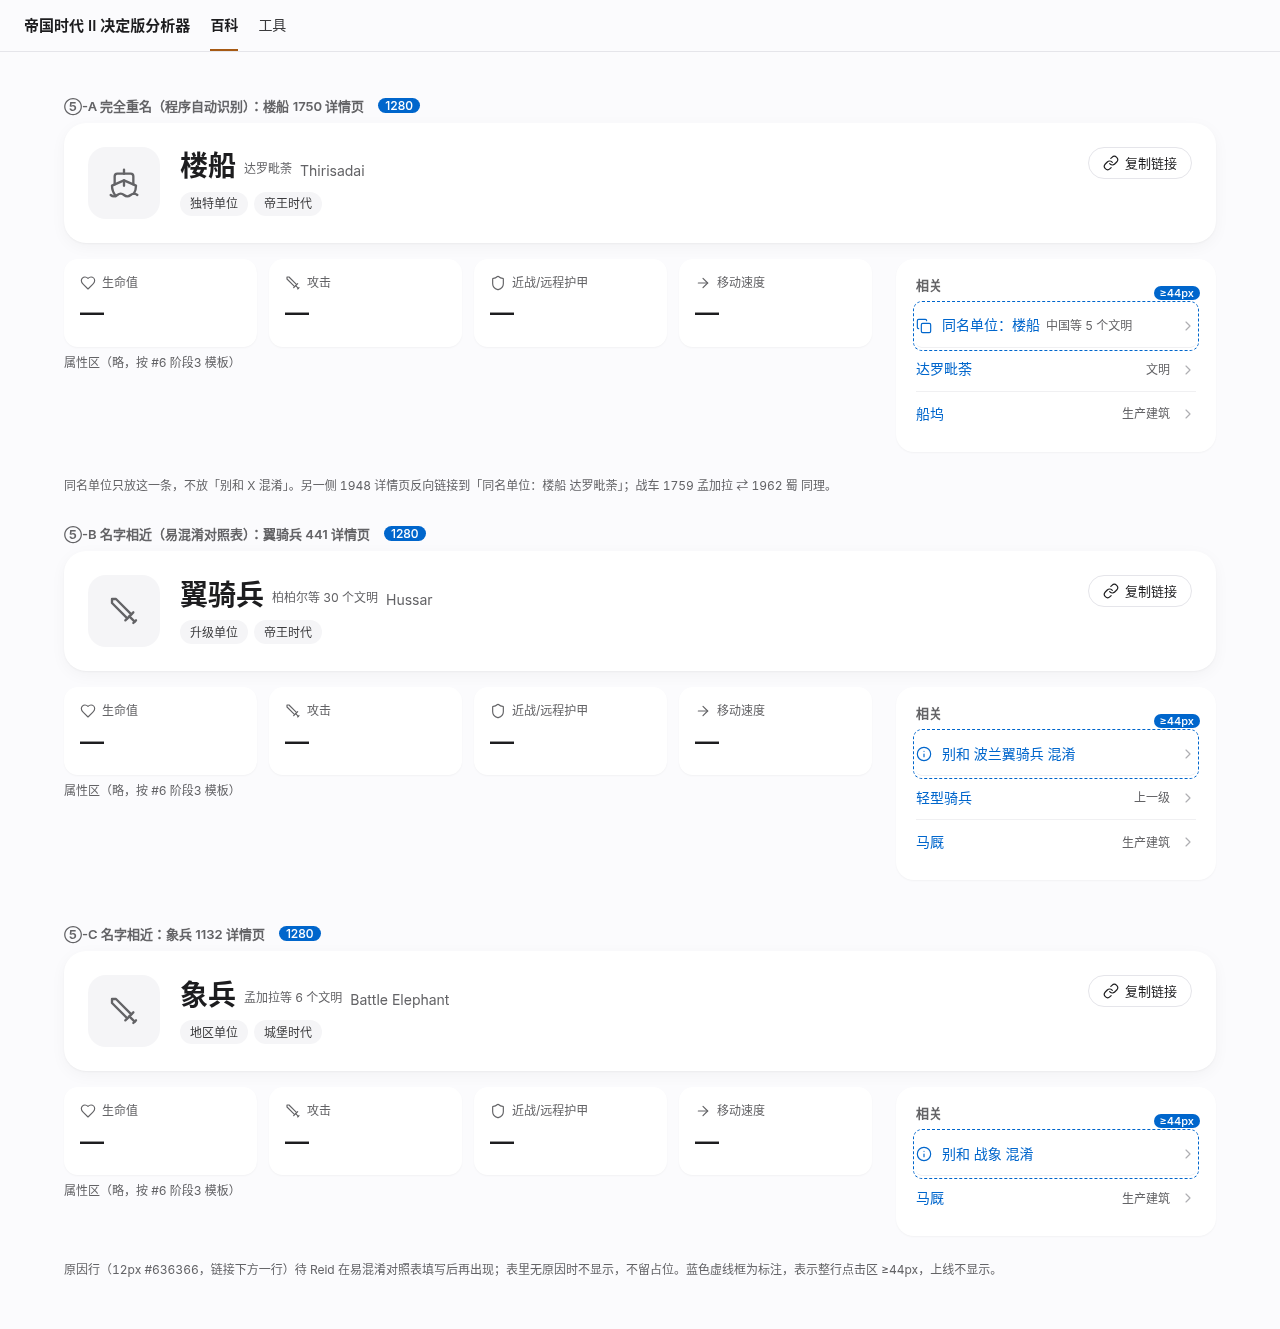
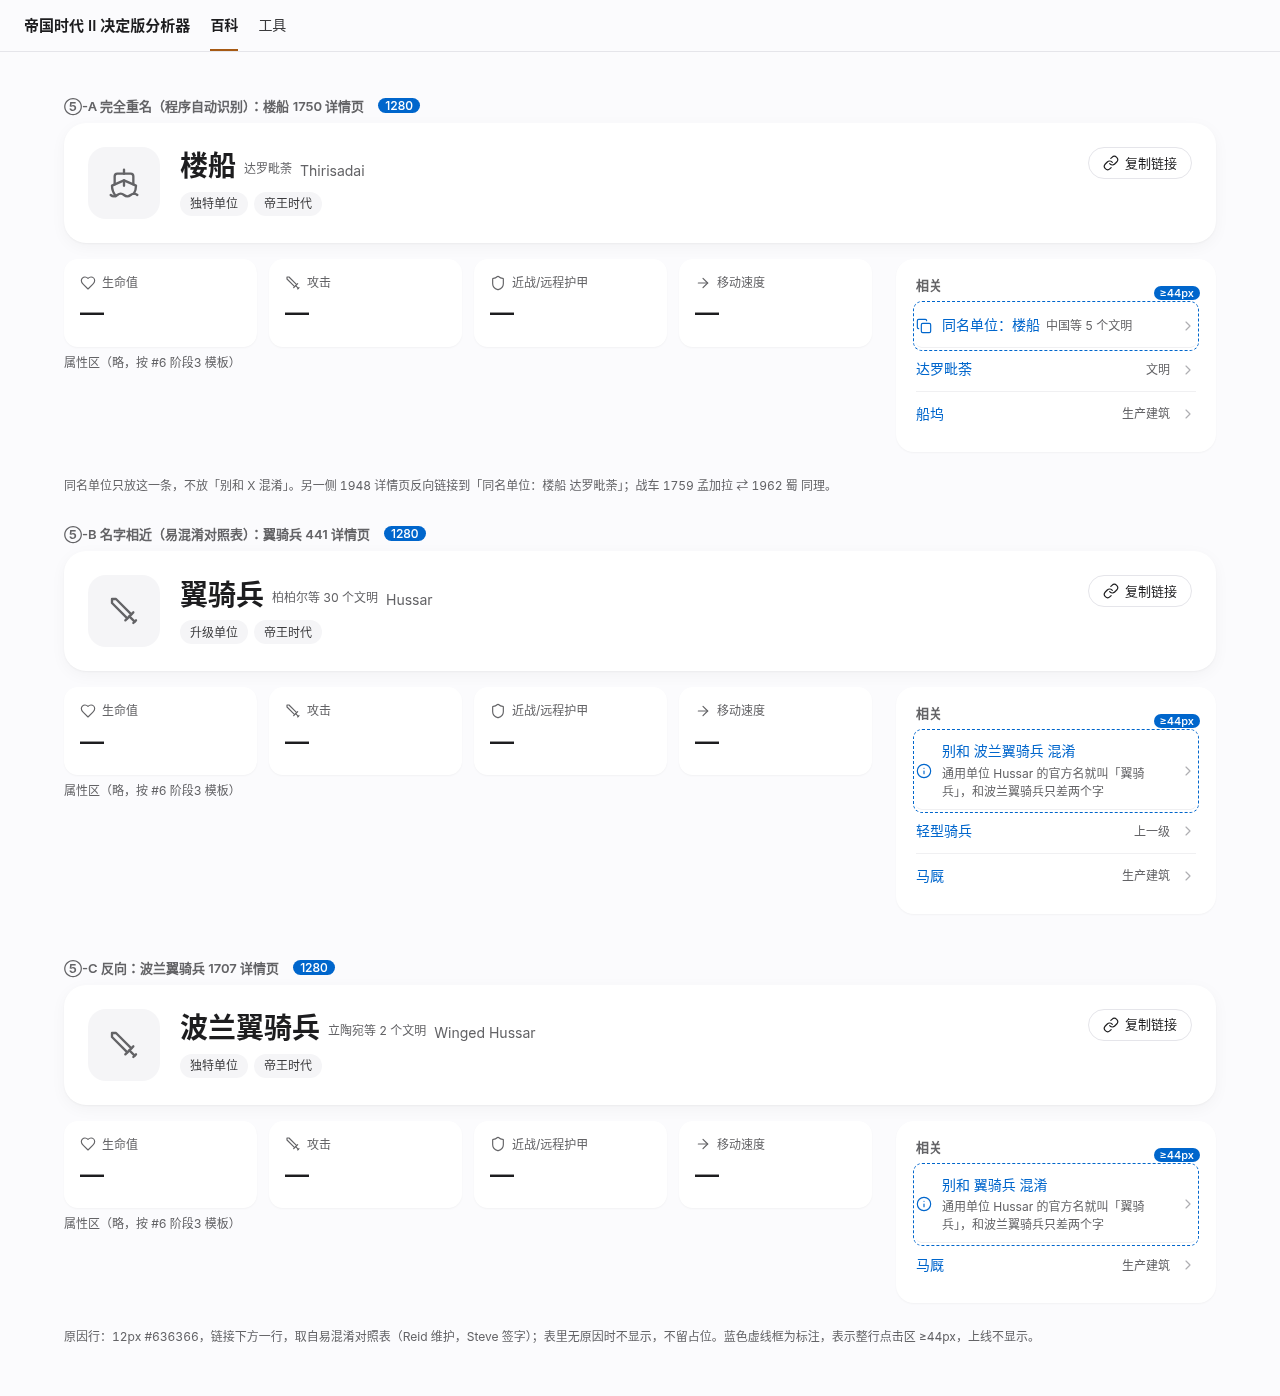
design(#44): confusables v1 = 翼骑兵/波兰翼骑兵 only, with Reid's reason line; drop 战象/象兵

diff --git a/docs/design/mockups/issue44-dup-names/related-1280.html b/docs/design/mockups/issue44-dup-names/related-1280.html
@@ -1,4 +1,4 @@
 <!doctype html><meta charset=utf-8><link rel=stylesheet href=t.css><link rel=stylesheet href=x.css><link rel=stylesheet href=rl.css><body><div class=top><b>帝国时代 II 决定版分析器</b><span class="n on">百科</span><span class=n>工具</span></div><div class=wrap><div class=sec>⑤-A 完全重名（程序自动识别）：楼船 1750 详情页<span class=ann>1280</span></div><div class=hd><div class=av><i data-i=ship></i></div><div><h1>楼船<span class=civ>达罗毗荼</span><small>Thirisadai</small></h1><div class=chips><span class=chip>独特单位</span><span class=chip>帝王时代</span></div></div><div class=hdr><button class=copy><i data-i=link></i><span>复制链接</span></button></div></div>
 <div class=dt><div><div class=stats><div class=st><div class=k><i data-i=heart></i>生命值</div><div class=v>—</div></div><div class=st><div class=k><i data-i=sword></i>攻击</div><div class=v>—</div></div><div class=st><div class=k><i data-i=shield></i>近战/远程护甲</div><div class=v>—</div></div><div class=st><div class=k><i data-i=move></i>移动速度</div><div class=v>—</div></div></div><div class=note>属性区（略，按 #6 阶段3 模板）</div></div><div class=side><div class="card rel2"><h3>相关</h3><a class=hl href=#><i data-i=copy></i><span class=tx>同名单位：楼船<span class=civ>中国等 5 个文明</span></span><i data-i=chev></i></a><a href=#><span class=tx>达罗毗荼</span><span class=t>文明</span><i data-i=chev></i></a><a href=#><span class=tx>船坞</span><span class=t>生产建筑</span><i data-i=chev></i></a></div></div></div><div class=lg>同名单位只放这一条，不放「别和 X 混淆」。另一侧 1948 详情页反向链接到「同名单位：楼船 达罗毗荼」；战车 1759 孟加拉 ⇄ 1962 蜀 同理。</div><div class=sec>⑤-B 名字相近（易混淆对照表）：翼骑兵 441 详情页<span class=ann>1280</span></div><div class=hd><div class=av><i data-i=sword></i></div><div><h1>翼骑兵<span class=civ>柏柏尔等 30 个文明</span><small>Hussar</small></h1><div class=chips><span class=chip>升级单位</span><span class=chip>帝王时代</span></div></div><div class=hdr><button class=copy><i data-i=link></i><span>复制链接</span></button></div></div>
-<div class=dt><div><div class=stats><div class=st><div class=k><i data-i=heart></i>生命值</div><div class=v>—</div></div><div class=st><div class=k><i data-i=sword></i>攻击</div><div class=v>—</div></div><div class=st><div class=k><i data-i=shield></i>近战/远程护甲</div><div class=v>—</div></div><div class=st><div class=k><i data-i=move></i>移动速度</div><div class=v>—</div></div></div><div class=note>属性区（略，按 #6 阶段3 模板）</div></div><div class=side><div class="card rel2"><h3>相关</h3><a class=hl href=#><i data-i=info></i><span class=tx>别和 波兰翼骑兵 混淆</span><i data-i=chev></i></a><a href=#><span class=tx>轻型骑兵</span><span class=t>上一级</span><i data-i=chev></i></a><a href=#><span class=tx>马厩</span><span class=t>生产建筑</span><i data-i=chev></i></a></div></div></div><div class=sec>⑤-C 名字相近：象兵 1132 详情页<span class=ann>1280</span></div><div class=hd><div class=av><i data-i=sword></i></div><div><h1>象兵<span class=civ>孟加拉等 6 个文明</span><small>Battle Elephant</small></h1><div class=chips><span class=chip>地区单位</span><span class=chip>城堡时代</span></div></div><div class=hdr><button class=copy><i data-i=link></i><span>复制链接</span></button></div></div>
-<div class=dt><div><div class=stats><div class=st><div class=k><i data-i=heart></i>生命值</div><div class=v>—</div></div><div class=st><div class=k><i data-i=sword></i>攻击</div><div class=v>—</div></div><div class=st><div class=k><i data-i=shield></i>近战/远程护甲</div><div class=v>—</div></div><div class=st><div class=k><i data-i=move></i>移动速度</div><div class=v>—</div></div></div><div class=note>属性区（略，按 #6 阶段3 模板）</div></div><div class=side><div class="card rel2"><h3>相关</h3><a class=hl href=#><i data-i=info></i><span class=tx>别和 战象 混淆</span><i data-i=chev></i></a><a href=#><span class=tx>马厩</span><span class=t>生产建筑</span><i data-i=chev></i></a></div></div></div><div class=lg>原因行（12px #636366，链接下方一行）待 Reid 在易混淆对照表填写后再出现；表里无原因时不显示，不留占位。蓝色虚线框为标注，表示整行点击区 ≥44px，上线不显示。</div></div><script src=icons.js></script>
+<div class=dt><div><div class=stats><div class=st><div class=k><i data-i=heart></i>生命值</div><div class=v>—</div></div><div class=st><div class=k><i data-i=sword></i>攻击</div><div class=v>—</div></div><div class=st><div class=k><i data-i=shield></i>近战/远程护甲</div><div class=v>—</div></div><div class=st><div class=k><i data-i=move></i>移动速度</div><div class=v>—</div></div></div><div class=note>属性区（略，按 #6 阶段3 模板）</div></div><div class=side><div class="card rel2"><h3>相关</h3><a class=hl href=#><i data-i=info></i><span class=tx>别和 波兰翼骑兵 混淆<span class=rs>通用单位 Hussar 的官方名就叫「翼骑兵」，和波兰翼骑兵只差两个字</span></span><i data-i=chev></i></a><a href=#><span class=tx>轻型骑兵</span><span class=t>上一级</span><i data-i=chev></i></a><a href=#><span class=tx>马厩</span><span class=t>生产建筑</span><i data-i=chev></i></a></div></div></div><div class=sec>⑤-C 反向：波兰翼骑兵 1707 详情页<span class=ann>1280</span></div><div class=hd><div class=av><i data-i=sword></i></div><div><h1>波兰翼骑兵<span class=civ>立陶宛等 2 个文明</span><small>Winged Hussar</small></h1><div class=chips><span class=chip>独特单位</span><span class=chip>帝王时代</span></div></div><div class=hdr><button class=copy><i data-i=link></i><span>复制链接</span></button></div></div>
+<div class=dt><div><div class=stats><div class=st><div class=k><i data-i=heart></i>生命值</div><div class=v>—</div></div><div class=st><div class=k><i data-i=sword></i>攻击</div><div class=v>—</div></div><div class=st><div class=k><i data-i=shield></i>近战/远程护甲</div><div class=v>—</div></div><div class=st><div class=k><i data-i=move></i>移动速度</div><div class=v>—</div></div></div><div class=note>属性区（略，按 #6 阶段3 模板）</div></div><div class=side><div class="card rel2"><h3>相关</h3><a class=hl href=#><i data-i=info></i><span class=tx>别和 翼骑兵 混淆<span class=rs>通用单位 Hussar 的官方名就叫「翼骑兵」，和波兰翼骑兵只差两个字</span></span><i data-i=chev></i></a><a href=#><span class=tx>马厩</span><span class=t>生产建筑</span><i data-i=chev></i></a></div></div></div><div class=lg>原因行：12px #636366，链接下方一行，取自易混淆对照表（Reid 维护，Steve 签字）；表里无原因时不显示，不留占位。蓝色虚线框为标注，表示整行点击区 ≥44px，上线不显示。</div></div><script src=icons.js></script>

diff --git a/docs/design/mockups/issue44-dup-names/related-390.html b/docs/design/mockups/issue44-dup-names/related-390.html
@@ -1,4 +1,4 @@
 <!doctype html><meta charset=utf-8><link rel=stylesheet href=t.css><link rel=stylesheet href=x.css><link rel=stylesheet href=rl.css><body><div class=top><b>帝国时代 II 决定版分析器</b><span class="n on">百科</span><span class=n>工具</span></div><div class=wrap><div class=sec>⑤-A 完全重名（程序自动识别）：楼船 1750 详情页<span class=ann>390</span></div><div class=hd><div class=av><i data-i=ship></i></div><div><h1>楼船<span class=civ>达罗毗荼</span><small>Thirisadai</small></h1><div class=chips><span class=chip>独特单位</span><span class=chip>帝王时代</span></div></div><div class=hdr><button class=copy><i data-i=link></i><span>复制链接</span></button></div></div>
 <div class=dt><div><div class=stats><div class=st><div class=k><i data-i=heart></i>生命值</div><div class=v>—</div></div><div class=st><div class=k><i data-i=sword></i>攻击</div><div class=v>—</div></div><div class=st><div class=k><i data-i=shield></i>近战/远程护甲</div><div class=v>—</div></div><div class=st><div class=k><i data-i=move></i>移动速度</div><div class=v>—</div></div></div><div class=note>属性区（略，按 #6 阶段3 模板）</div></div><div class=side><div class="card rel2"><h3>相关</h3><a class=hl href=#><i data-i=copy></i><span class=tx>同名单位：楼船<span class=civ>中国等 5 个文明</span></span><i data-i=chev></i></a><a href=#><span class=tx>达罗毗荼</span><span class=t>文明</span><i data-i=chev></i></a><a href=#><span class=tx>船坞</span><span class=t>生产建筑</span><i data-i=chev></i></a></div></div></div><div class=lg>同名单位只放这一条，不放「别和 X 混淆」。另一侧 1948 详情页反向链接到「同名单位：楼船 达罗毗荼」；战车 1759 孟加拉 ⇄ 1962 蜀 同理。</div><div class=sec>⑤-B 名字相近（易混淆对照表）：翼骑兵 441 详情页<span class=ann>390</span></div><div class=hd><div class=av><i data-i=sword></i></div><div><h1>翼骑兵<span class=civ>柏柏尔等 30 个文明</span><small>Hussar</small></h1><div class=chips><span class=chip>升级单位</span><span class=chip>帝王时代</span></div></div><div class=hdr><button class=copy><i data-i=link></i><span>复制链接</span></button></div></div>
-<div class=dt><div><div class=stats><div class=st><div class=k><i data-i=heart></i>生命值</div><div class=v>—</div></div><div class=st><div class=k><i data-i=sword></i>攻击</div><div class=v>—</div></div><div class=st><div class=k><i data-i=shield></i>近战/远程护甲</div><div class=v>—</div></div><div class=st><div class=k><i data-i=move></i>移动速度</div><div class=v>—</div></div></div><div class=note>属性区（略，按 #6 阶段3 模板）</div></div><div class=side><div class="card rel2"><h3>相关</h3><a class=hl href=#><i data-i=info></i><span class=tx>别和 波兰翼骑兵 混淆</span><i data-i=chev></i></a><a href=#><span class=tx>轻型骑兵</span><span class=t>上一级</span><i data-i=chev></i></a><a href=#><span class=tx>马厩</span><span class=t>生产建筑</span><i data-i=chev></i></a></div></div></div><div class=sec>⑤-C 名字相近：象兵 1132 详情页<span class=ann>390</span></div><div class=hd><div class=av><i data-i=sword></i></div><div><h1>象兵<span class=civ>孟加拉等 6 个文明</span><small>Battle Elephant</small></h1><div class=chips><span class=chip>地区单位</span><span class=chip>城堡时代</span></div></div><div class=hdr><button class=copy><i data-i=link></i><span>复制链接</span></button></div></div>
-<div class=dt><div><div class=stats><div class=st><div class=k><i data-i=heart></i>生命值</div><div class=v>—</div></div><div class=st><div class=k><i data-i=sword></i>攻击</div><div class=v>—</div></div><div class=st><div class=k><i data-i=shield></i>近战/远程护甲</div><div class=v>—</div></div><div class=st><div class=k><i data-i=move></i>移动速度</div><div class=v>—</div></div></div><div class=note>属性区（略，按 #6 阶段3 模板）</div></div><div class=side><div class="card rel2"><h3>相关</h3><a class=hl href=#><i data-i=info></i><span class=tx>别和 战象 混淆</span><i data-i=chev></i></a><a href=#><span class=tx>马厩</span><span class=t>生产建筑</span><i data-i=chev></i></a></div></div></div><div class=lg>原因行（12px #636366，链接下方一行）待 Reid 在易混淆对照表填写后再出现；表里无原因时不显示，不留占位。蓝色虚线框为标注，表示整行点击区 ≥44px，上线不显示。</div></div><script src=icons.js></script>
+<div class=dt><div><div class=stats><div class=st><div class=k><i data-i=heart></i>生命值</div><div class=v>—</div></div><div class=st><div class=k><i data-i=sword></i>攻击</div><div class=v>—</div></div><div class=st><div class=k><i data-i=shield></i>近战/远程护甲</div><div class=v>—</div></div><div class=st><div class=k><i data-i=move></i>移动速度</div><div class=v>—</div></div></div><div class=note>属性区（略，按 #6 阶段3 模板）</div></div><div class=side><div class="card rel2"><h3>相关</h3><a class=hl href=#><i data-i=info></i><span class=tx>别和 波兰翼骑兵 混淆<span class=rs>通用单位 Hussar 的官方名就叫「翼骑兵」，和波兰翼骑兵只差两个字</span></span><i data-i=chev></i></a><a href=#><span class=tx>轻型骑兵</span><span class=t>上一级</span><i data-i=chev></i></a><a href=#><span class=tx>马厩</span><span class=t>生产建筑</span><i data-i=chev></i></a></div></div></div><div class=sec>⑤-C 反向：波兰翼骑兵 1707 详情页<span class=ann>390</span></div><div class=hd><div class=av><i data-i=sword></i></div><div><h1>波兰翼骑兵<span class=civ>立陶宛等 2 个文明</span><small>Winged Hussar</small></h1><div class=chips><span class=chip>独特单位</span><span class=chip>帝王时代</span></div></div><div class=hdr><button class=copy><i data-i=link></i><span>复制链接</span></button></div></div>
+<div class=dt><div><div class=stats><div class=st><div class=k><i data-i=heart></i>生命值</div><div class=v>—</div></div><div class=st><div class=k><i data-i=sword></i>攻击</div><div class=v>—</div></div><div class=st><div class=k><i data-i=shield></i>近战/远程护甲</div><div class=v>—</div></div><div class=st><div class=k><i data-i=move></i>移动速度</div><div class=v>—</div></div></div><div class=note>属性区（略，按 #6 阶段3 模板）</div></div><div class=side><div class="card rel2"><h3>相关</h3><a class=hl href=#><i data-i=info></i><span class=tx>别和 翼骑兵 混淆<span class=rs>通用单位 Hussar 的官方名就叫「翼骑兵」，和波兰翼骑兵只差两个字</span></span><i data-i=chev></i></a><a href=#><span class=tx>马厩</span><span class=t>生产建筑</span><i data-i=chev></i></a></div></div></div><div class=lg>原因行：12px #636366，链接下方一行，取自易混淆对照表（Reid 维护，Steve 签字）；表里无原因时不显示，不留占位。蓝色虚线框为标注，表示整行点击区 ≥44px，上线不显示。</div></div><script src=icons.js></script>

diff --git a/docs/design/mockups/issue44-dup-names/desktop.html b/docs/design/mockups/issue44-dup-names/desktop.html
@@ -13,5 +13,5 @@
 <div class=sec>④ 详情页页头 + 相关（#6 阶段3 冻结模板）</div>
 <div class=hd><div class=av><i data-i=ship></i></div><div><h1>楼船<span class=civ>达罗毗荼</span><small>Thirisadai</small></h1><div class=chips><span class=chip>独特单位</span><span class=chip>帝王时代</span><a class=chip href=#><i data-i=flag></i>达罗毗荼</a></div></div><div class=hdr><button class=copy><i data-i=link></i><span>复制链接</span></button></div></div>
 <div class=grid><div></div><div class=side><div class="card rel"><h3>相关</h3><a class=cf href=#><span><i data-i=copy></i>同名单位：楼船<span class=civ>中国等 5 个文明</span></span></a><a href=#>达罗毗荼 <span class=t>文明</span></a><a href=#>船坞 <span class=t>生产建筑</span></a></div>
-<div class="card rel"><h3>相关 · 翼骑兵（441）</h3><a class=cf href=#><span><i data-i=info></i>别和 波兰翼骑兵 混淆</span></a><a href=#>马厩 <span class=t>生产建筑</span></a></div></div></div>
+<div class="card rel"><h3>相关 · 翼骑兵（441）</h3><a class=cf href=#><span><i data-i=info></i>别和 波兰翼骑兵 混淆<span style="display:block;font-size:12px;color:#636366;line-height:1.5">通用单位 Hussar 的官方名就叫「翼骑兵」，和波兰翼骑兵只差两个字</span></span></a><a href=#>马厩 <span class=t>生产建筑</span></a></div></div></div>
 </div><script src=icons.js></script>

diff --git a/docs/design/mockups/issue44-dup-names/mobile.html b/docs/design/mockups/issue44-dup-names/mobile.html
@@ -13,5 +13,5 @@
 <div class=sec>④ 详情页页头 + 相关（#6 阶段3 冻结模板）</div>
 <div class=hd><div class=av><i data-i=ship></i></div><div><h1>楼船<span class=civ>达罗毗荼</span><small>Thirisadai</small></h1><div class=chips><span class=chip>独特单位</span><span class=chip>帝王时代</span><a class=chip href=#><i data-i=flag></i>达罗毗荼</a></div></div><div class=hdr><button class=copy><i data-i=link></i><span>复制链接</span></button></div></div>
 <div class=grid><div></div><div class=side><div class="card rel"><h3>相关</h3><a class=cf href=#><span><i data-i=copy></i>同名单位：楼船<span class=civ>中国等 5 个文明</span></span></a><a href=#>达罗毗荼 <span class=t>文明</span></a><a href=#>船坞 <span class=t>生产建筑</span></a></div>
-<div class="card rel"><h3>相关 · 翼骑兵（441）</h3><a class=cf href=#><span><i data-i=info></i>别和 波兰翼骑兵 混淆</span></a><a href=#>马厩 <span class=t>生产建筑</span></a></div></div></div>
+<div class="card rel"><h3>相关 · 翼骑兵（441）</h3><a class=cf href=#><span><i data-i=info></i>别和 波兰翼骑兵 混淆<span style="display:block;font-size:12px;color:#636366;line-height:1.5">通用单位 Hussar 的官方名就叫「翼骑兵」，和波兰翼骑兵只差两个字</span></span></a><a href=#>马厩 <span class=t>生产建筑</span></a></div></div></div>
 </div><script src=icons.js></script>

diff --git a/docs/design/mockups/issue44-dup-names/SPEC.md b/docs/design/mockups/issue44-dup-names/SPEC.md
@@ -29,9 +29,9 @@
 | 名字相近 | **易混淆对照表**（不是别名表）。Reid 维护，新条目 Steve 签字；不做模糊匹配 | `别和 {X} 混淆`，下方一行原因（12px #636366，line-height 1.5） | Lucide `info` |
 
 - 完全重名只放「同名单位」一条，不放「别和 X 混淆」。双向生成：楼船 1750 达罗毗荼 ⇄ 1948 中国等 5 个文明；战车 1759 孟加拉 ⇄ 1962 蜀。
-- 易混淆对照表 v1 两条（每条含原因、来源）：
-  - 翼骑兵 441（Hussar，柏柏尔等 30 个文明）⇄ 波兰翼骑兵 1707（Winged Hussar，立陶宛、波兰）。原因：（原因待 Reid 填写）
-  - 战象 239（War Elephant，波斯）⇄ 象兵 1132（Battle Elephant，孟加拉等 6 个文明）。原因：（原因待 Reid 填写）
-- 原因为空时不显示原因行、不留占位（样稿因此未画原因行）。
+- 易混淆对照表 v1 只有一条（[Reid 的表](https://github.com/linhongcun/aoe2-analyzer/issues/44#issuecomment-6107043040)）：翼骑兵 441（Hussar，柏柏尔等 30 个文明）⇄ 波兰翼骑兵 1707（Winged Hussar，立陶宛、波兰），双向显示。
+  - 原因行（缩成一行）：「通用单位 Hussar 的官方名就叫「翼骑兵」，和波兰翼骑兵只差两个字」。来源：逗游网《波兰特色单位与建筑一览》。
+  - 战象 / 象兵 暂不收录（尚无来源），补到证据并经 Steve 签字后再加。
+- 原因为空时不显示原因行、不留占位。
 - 样式：整行是链接，`min-height:44px`（两种宽度实测 44px），文字 14px `#0066cc`，图标 16px 同色，行尾 Lucide `chevron-right` #aeaeb2（装饰）；行间 1px 分隔线，与其他相关项一致。图标 `aria-hidden`，可读名就是文字。AA：#0066cc/白 5.6:1，#636366/白 5.9:1。
 - 位置：1280 在右侧 320px「相关」卡片第一项；390 单栏，「相关」卡片在属性区下方，第一项同上。
